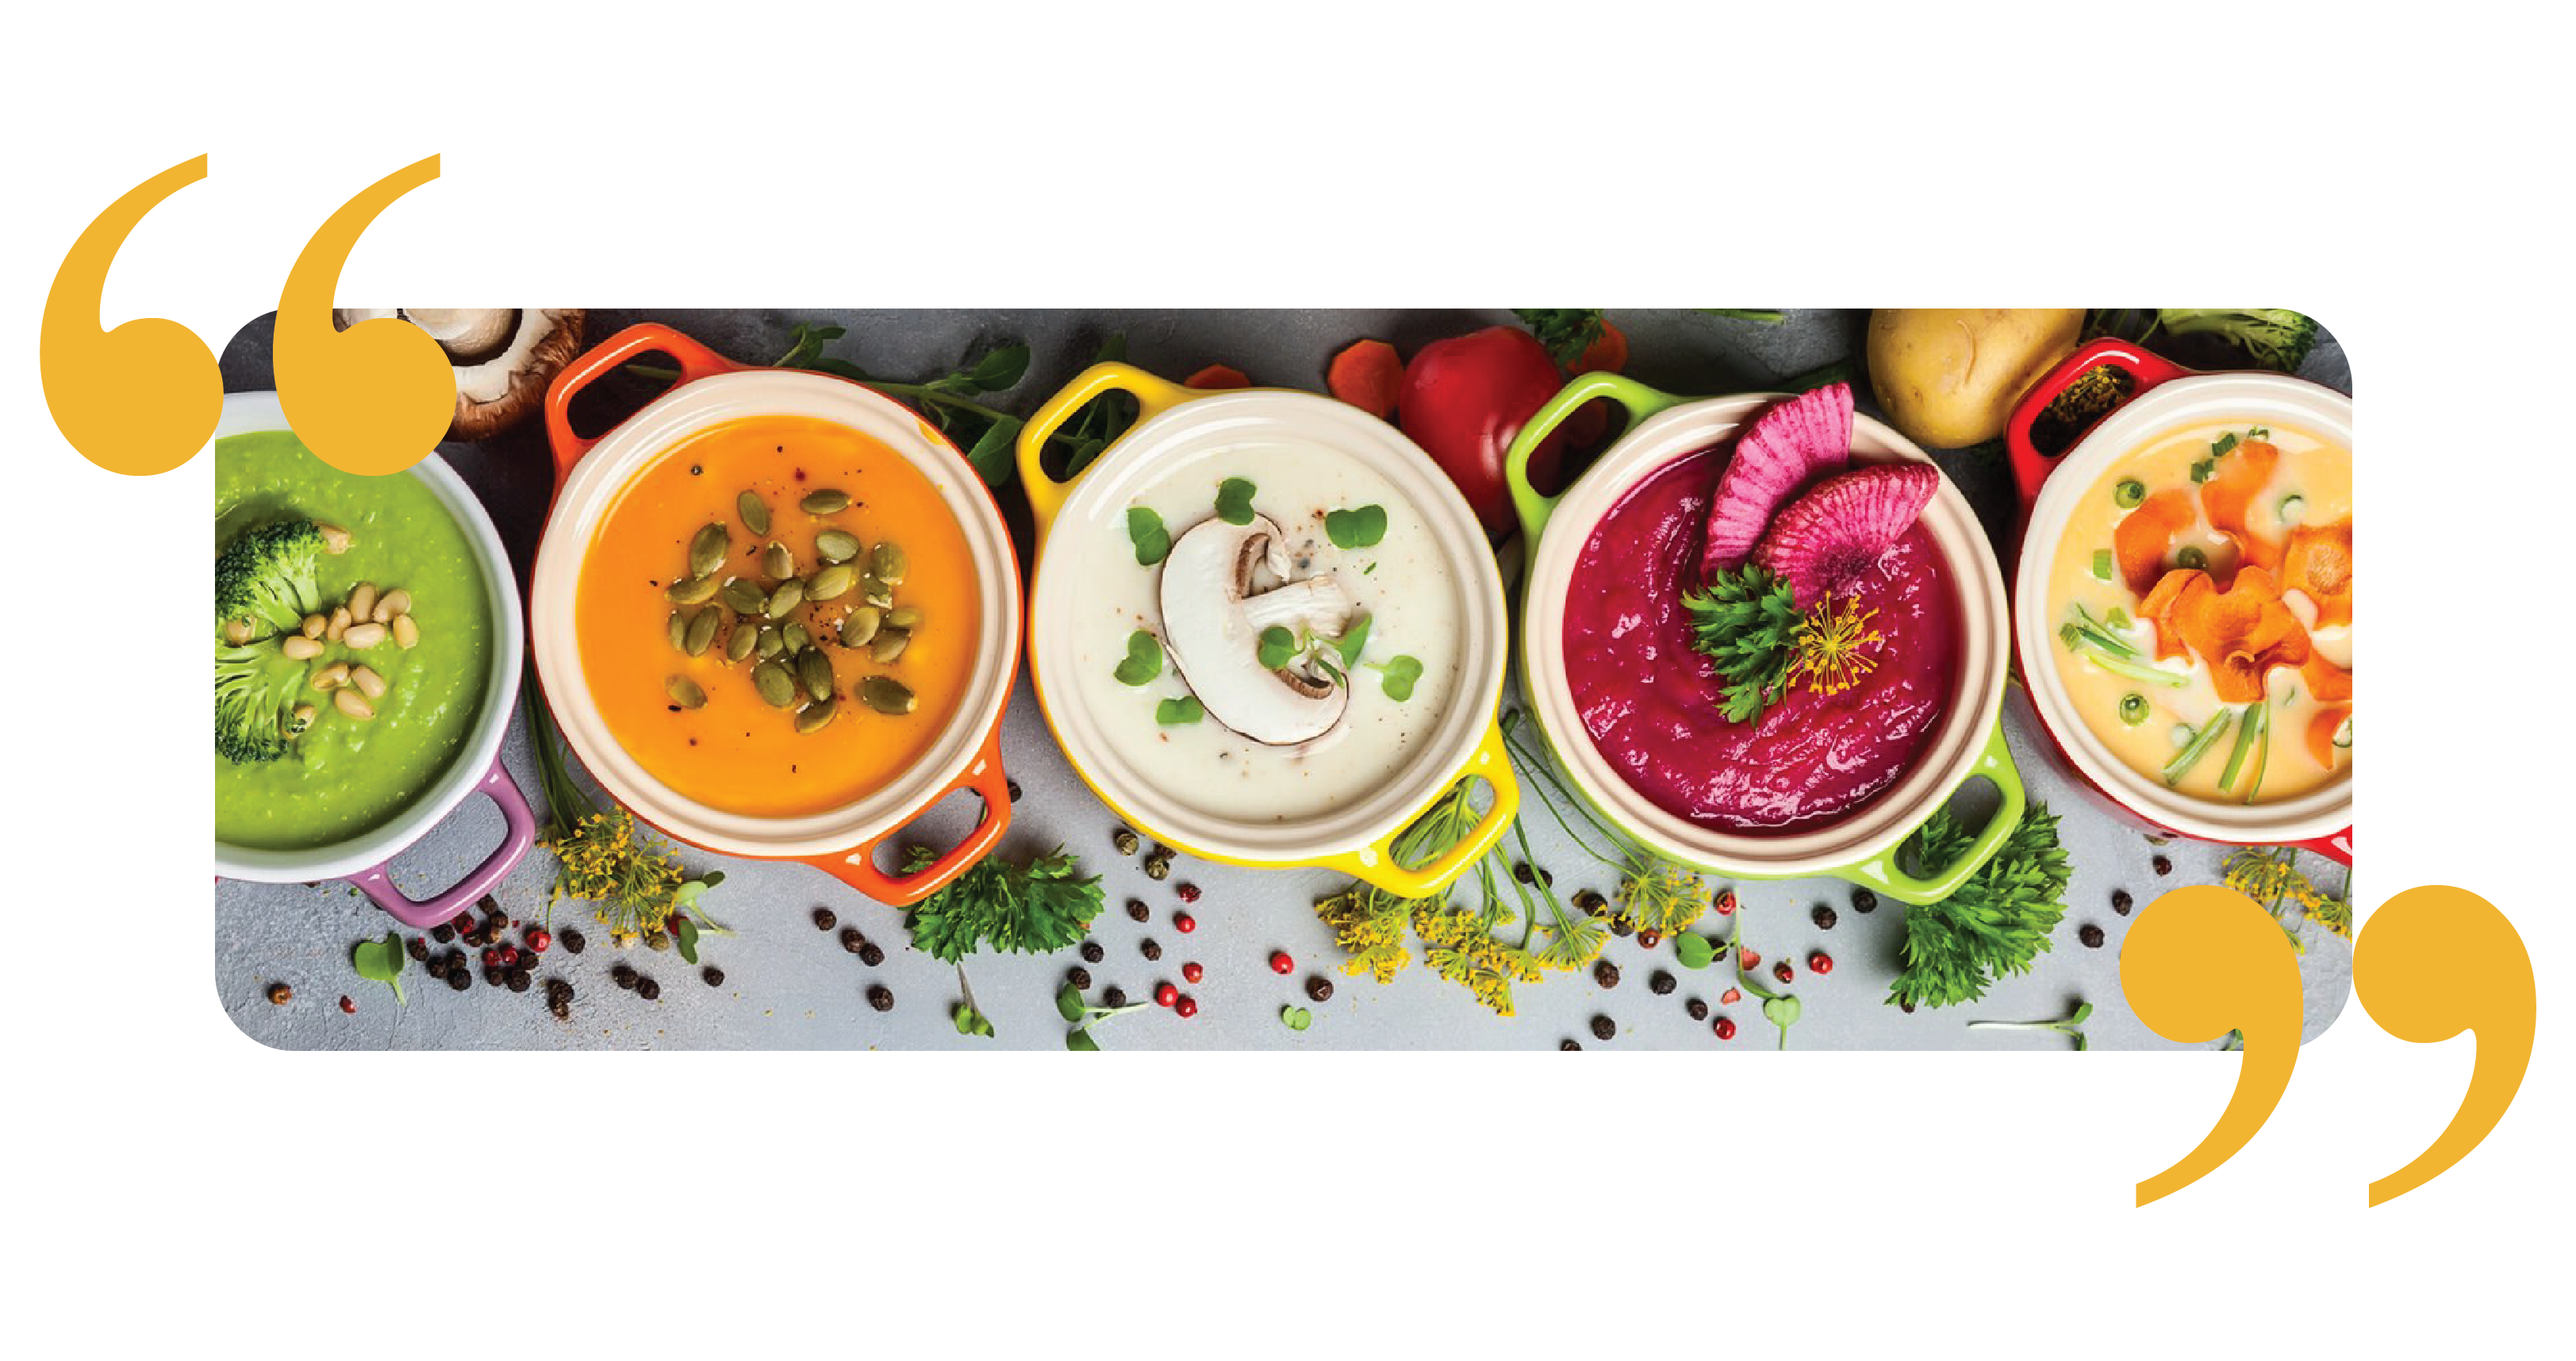
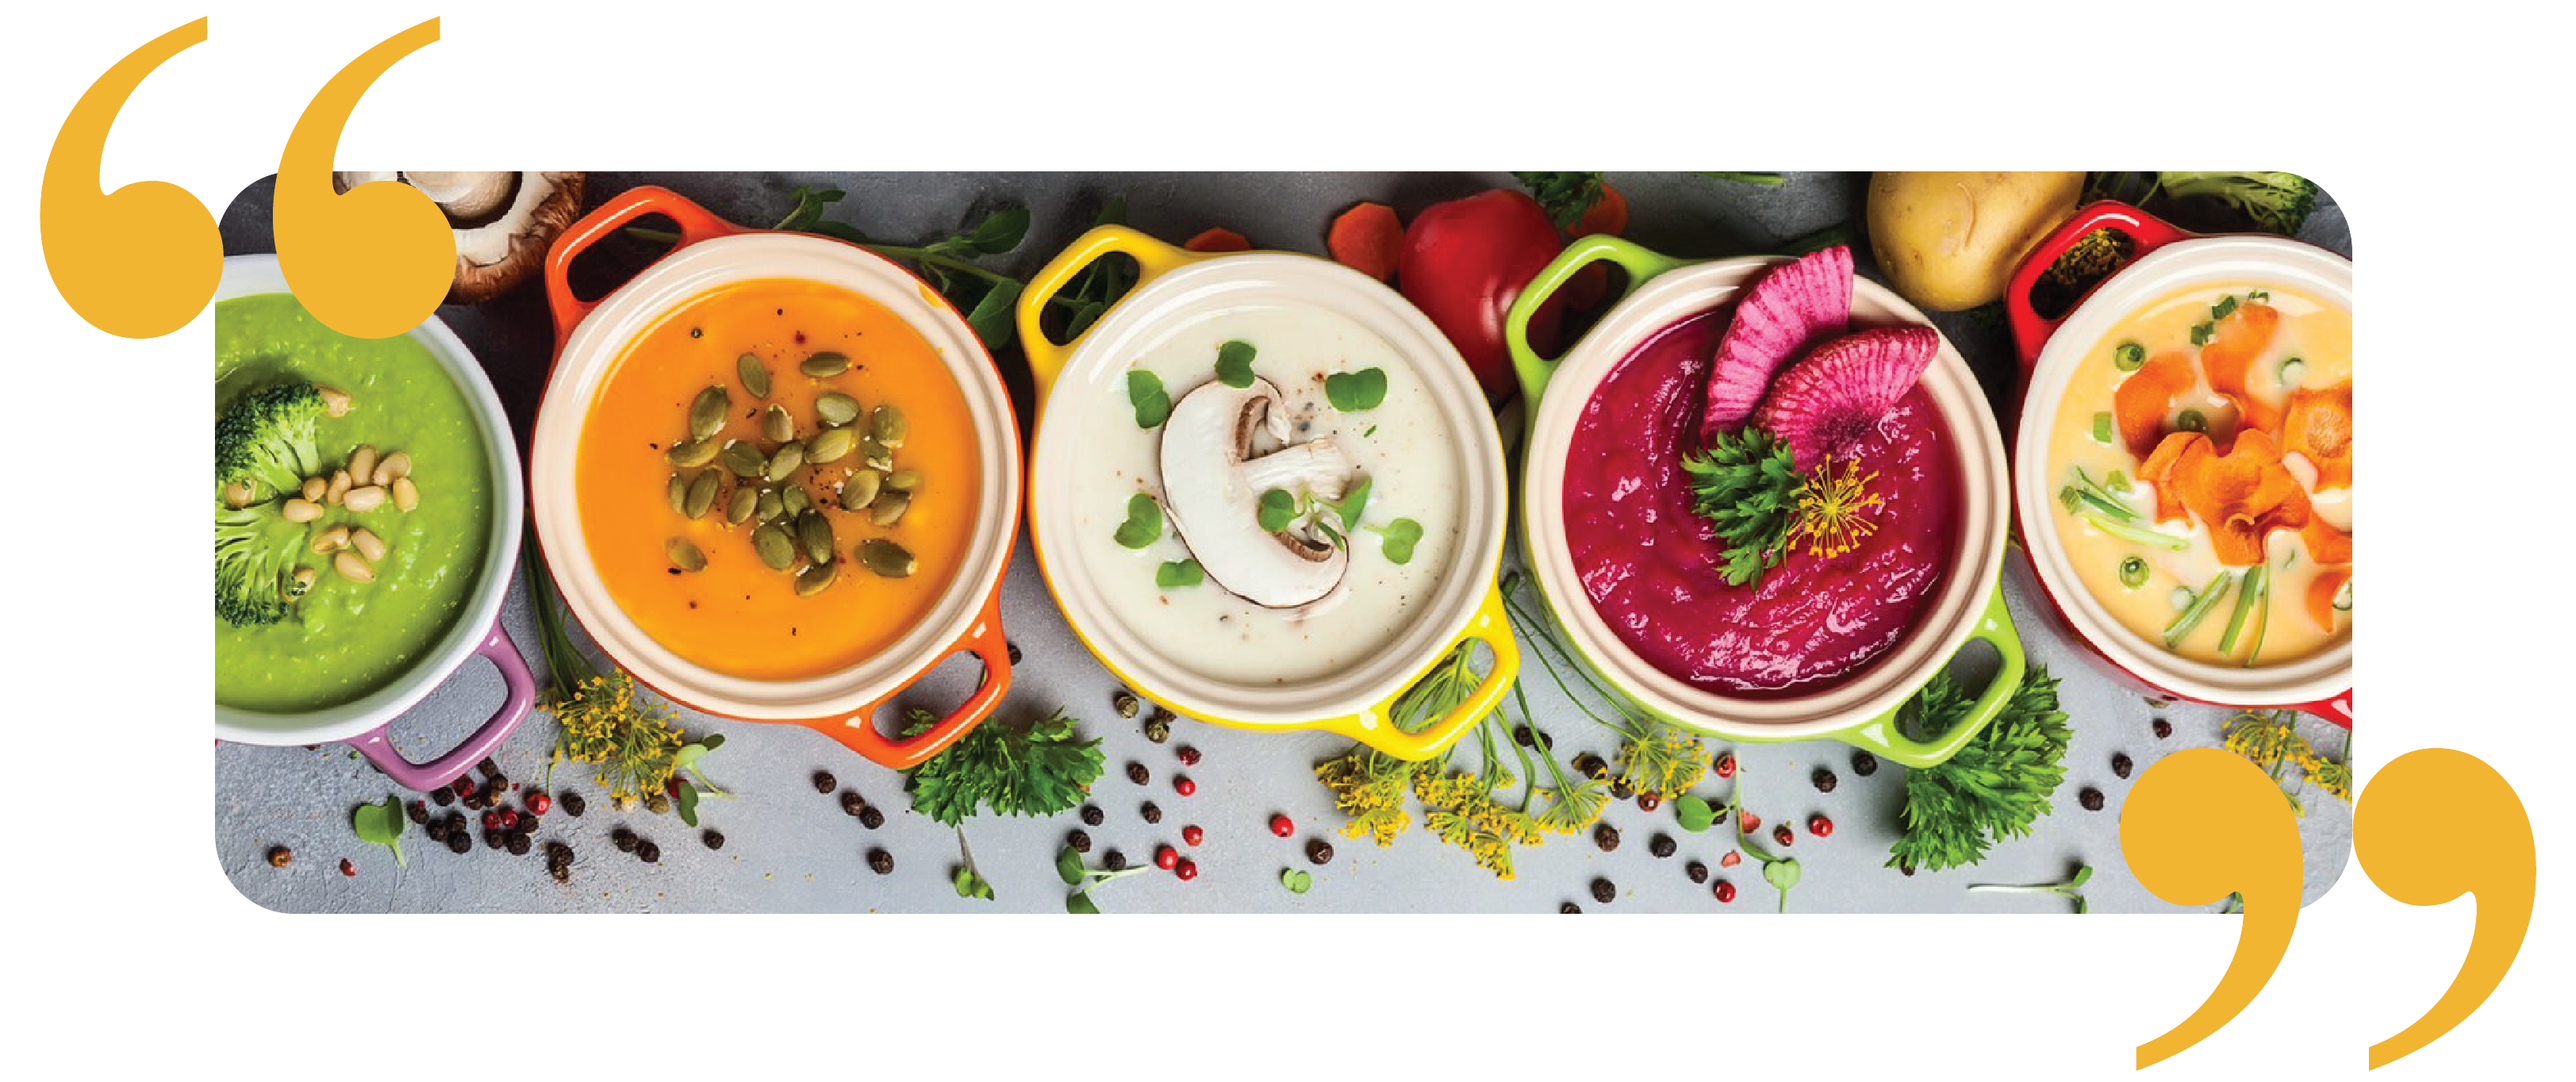
replace header

diff --git a/css/style.css b/css/style.css
@@ -14,6 +14,10 @@ h1, h2 {
     font-weight: 700;
 }
 
+h1 {
+    font-size: 3em;
+}
+
 p {
     font-family: Arima, sans-serif;
     font-size: 1em;
@@ -25,6 +29,8 @@ p {
     margin-top: 80px;
     max-width: 70%;
 }
+
+/*global navigation styles*/
 
 #globalnav {
     margin-top: 20px;
@@ -52,9 +58,9 @@ p {
     text-decoration: underline;
 }
 
+
 .headimage {
     width: 100%;
-    margin: -20px 0;
 }
 
 #highlight {
